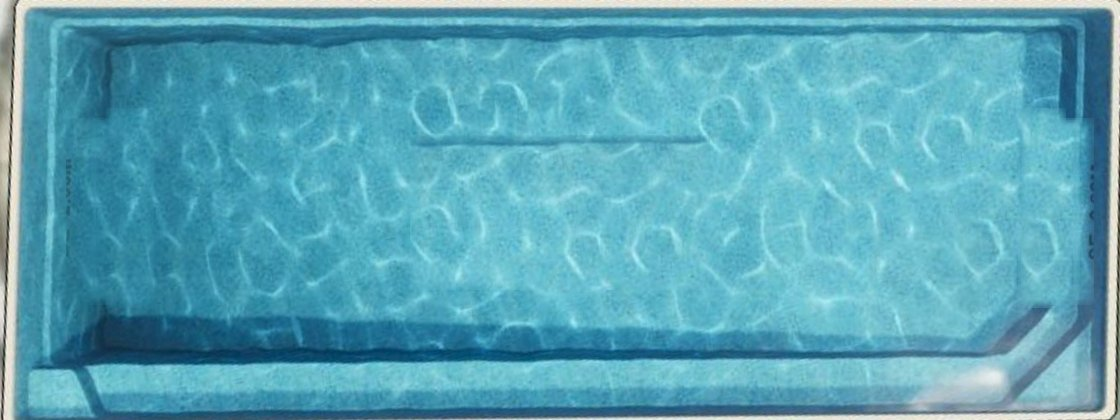
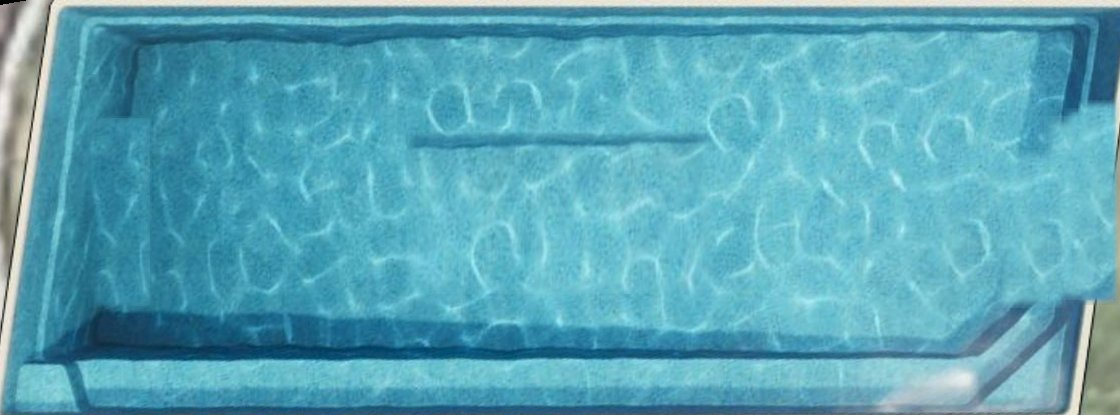
Diagram: waterline-fitted crop (straight walls, all 4 visible) + clean text removal
Fitted the top/bottom long-wall waterlines by least-squares and derived corners from the
true pool x-extent, so the walls are straight and all four are visible with the 360 ledge.
Removed DE/SE/logo/BRAMPTON text sourcing fills from verified-clean ripple regions (no
smudging of the deep-end steps or floor shadow this time). Grass remains only in the extreme
corners (barrel distortion of the source photo). sw cache v24.

diff --git a/index.html b/index.html
@@ -457,6 +457,14 @@ function diagram(c){
     /* ── Water clip path — the square pool rect (coping has square corners). The pool photo
        clips to this. ── */
     +'<clipPath id="waterClip"><rect x="'+f2(sx(oPX))+'" y="'+f2(sy(oPY))+'" width="'+f2(sw(pL))+'" height="'+f2(sw(pW))+'"/></clipPath>'
+    /* image clip = pool rect with small 45° cut corners → trims the grass triangles that the
+       wide crop left in the image corners, while the coping stays square around it */
+    +'<clipPath id="poolImgClip"><path d="'
+      +(function(){var k=Math.max(sw(pL),sw(pW))*0.055;var ax=sx(oPX),ay=sy(oPY),bx=sx(oPX+pL),by=sy(oPY+pW);
+        return 'M '+f2(ax+k)+' '+f2(ay)+' L '+f2(bx-k)+' '+f2(ay)+' L '+f2(bx)+' '+f2(ay+k)
+          +' L '+f2(bx)+' '+f2(by-k)+' L '+f2(bx-k)+' '+f2(by)+' L '+f2(ax+k)+' '+f2(by)
+          +' L '+f2(ax)+' '+f2(by-k)+' L '+f2(ax)+' '+f2(ay+k)+' Z';})()
+      +'"/></clipPath>'
 
     /* ── Sheen: soft diagonal light band across the water ── */
     +'<linearGradient id="sheen" x1="0" y1="0" x2="1" y2="0.7">'

diff --git a/sw.js b/sw.js
@@ -1,7 +1,7 @@
 // Paradise Pools Tile & Concrete Calculator — service worker
 // Caches the app on first visit so it works fully offline afterwards.
 
-const CACHE_NAME = "pp-tile-calc-v23";
+const CACHE_NAME = "pp-tile-calc-v24";
 const ASSETS = [
   "./",
   "./index.html",
